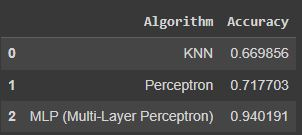
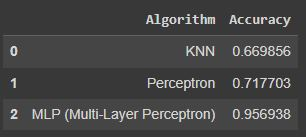
finished

diff --git a/Assignment_49/README.md b/Assignment_49/README.md
@@ -1,12 +1,38 @@
 <p style="color: orange; font-weight: bold; font-size: 18px">Assinment-49 (Machine Learning) Neural Networks</p>
 <br>
 
-- <p style="color: lightgreen; font-size: 18px; font-family: Tahoma">MLP using TensorFlow</p>
-- <p style="color: lightgreen; font-size: 18px; font-family: Tahoma">TITANIC dataset</p>
+# <p style="color: lightgreen; font-size: 16px; font-family: Tahoma">MLP (Multi Layer Perceptron) using TensorFlow (TITANIC dataset)</p>
 
-<p style="color: white; font-size: 14px; font-family: Tahoma">The result of ❌loss and ✅accuracy of 3-layer neural network for recognizing handwritten numbers in Train and Test data. </p>
+- <p style="color: lightgreen; font-size: 18px; font-family: Tahoma">Fit MLP model on TITANIC train dataset</p>
 
-![](data)
+<p style="color: white; font-size: 14px; font-family: Tahoma">The results of calculating the accuracy and loss of the MLP algorithm in detecting the effective factors in saving the Titanic passengers </p>
 
-![](data)
+![](data/epoch95-100.JPG)
 
+- <p style="color: white; font-size: 14px; font-family: Tahoma">Draw Loss and Accuracy chart </p>
+
+![](data/loss-chart.png)
+
+![](data/acc-chart.png)
+
+- <p style="color: white; font-size: 14px; font-family: Tahoma">Evaluate your model on test dataset (You should achieve an accuracy > 90%) </p>
+
+![](data/test-acc.JPG)
+
+- <p style="color: white; font-size: 14px; font-family: Tahoma">Calculate precision and recall </p>
+
+![](data/cm.png)
+
+![](data/p-r.JPG)
+---
+<p style="color: white; font-size: 14px; font-family: Tahoma">Predict your model on Jack and Rose data </p>
+
+- <p style="color: lightblue; font-size: 14px; font-family: Tahoma">Jack's survival prediction: Did not survive</p>
+
+- <p style="color: lightblue; font-size: 14px; font-family: Tahoma">Rose's survival prediction: Survived </p>
+
+---
+<br><br>
+<p style="color: white; font-size: 14px; font-family: Tahoma">Comparing the accuracy of KNN, Perceptron and MLP algorithms </p>
+
+![](data/compare-acc.JPG)
